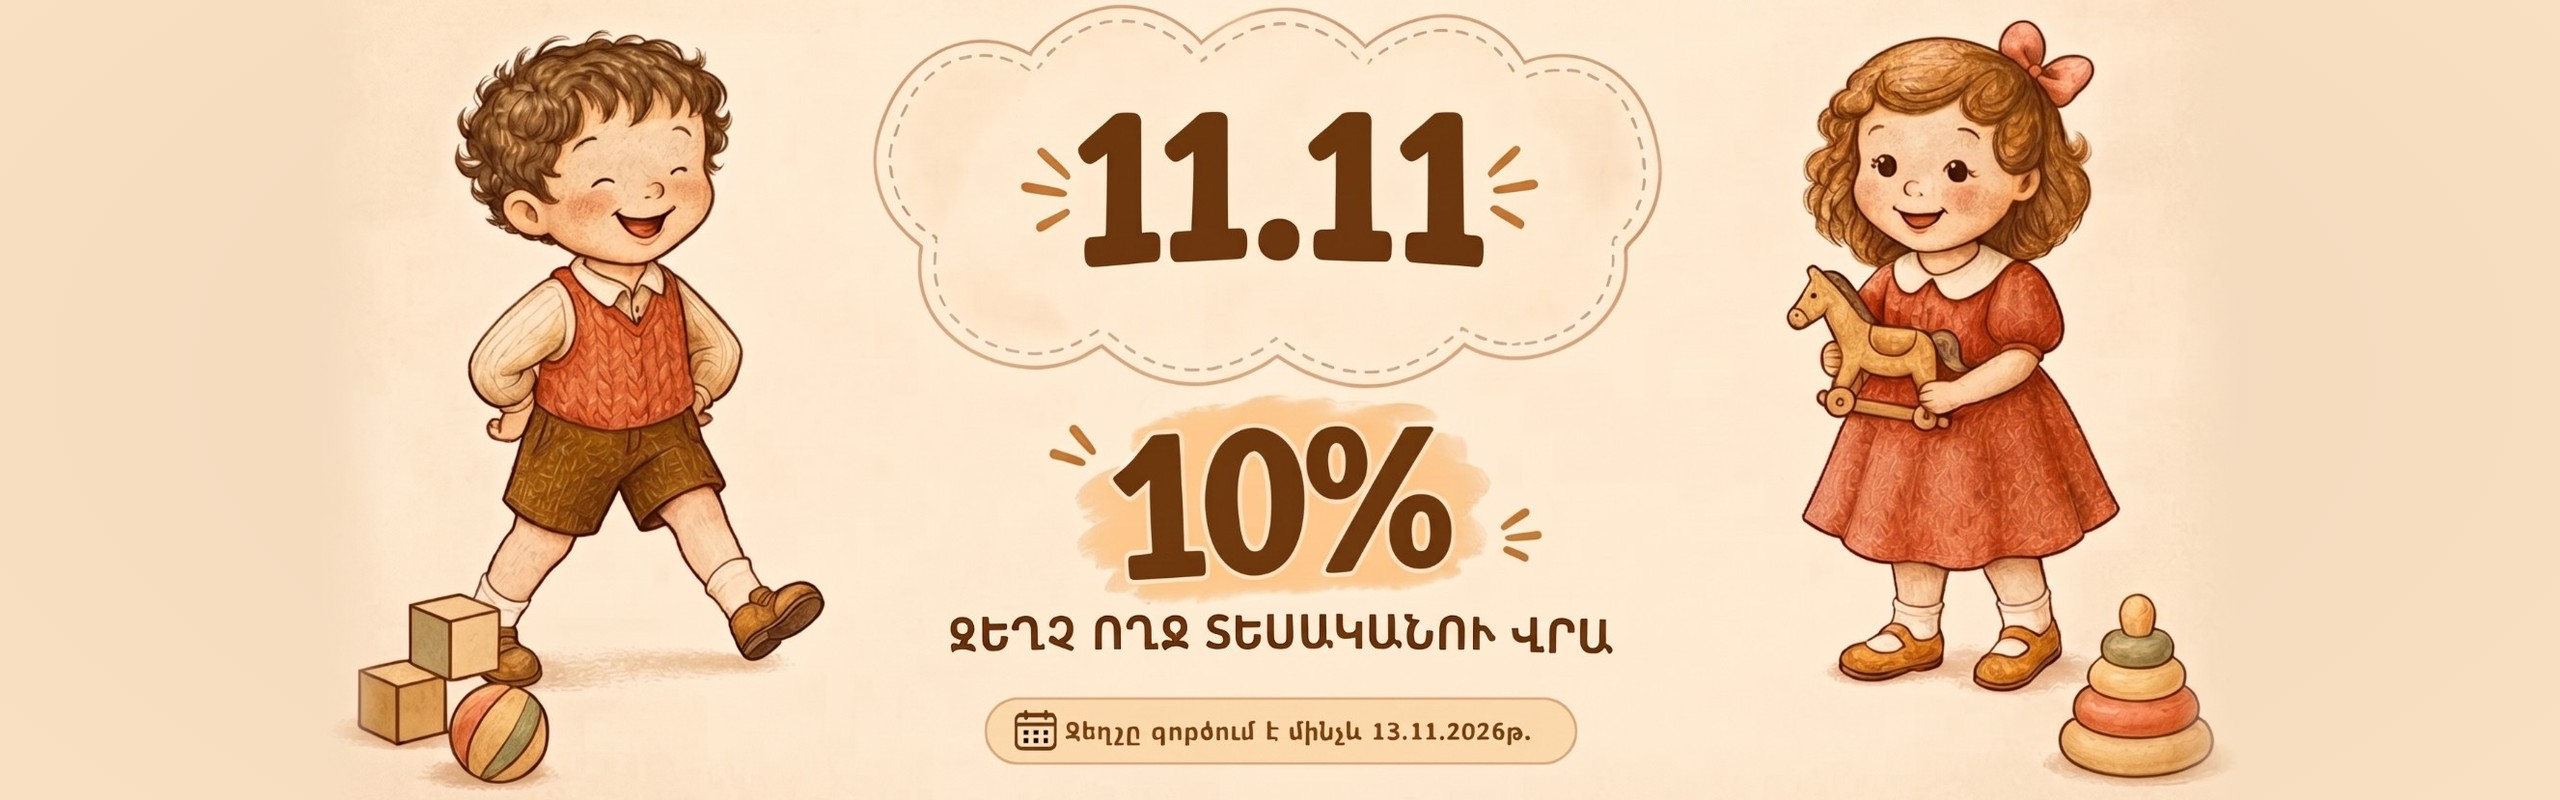
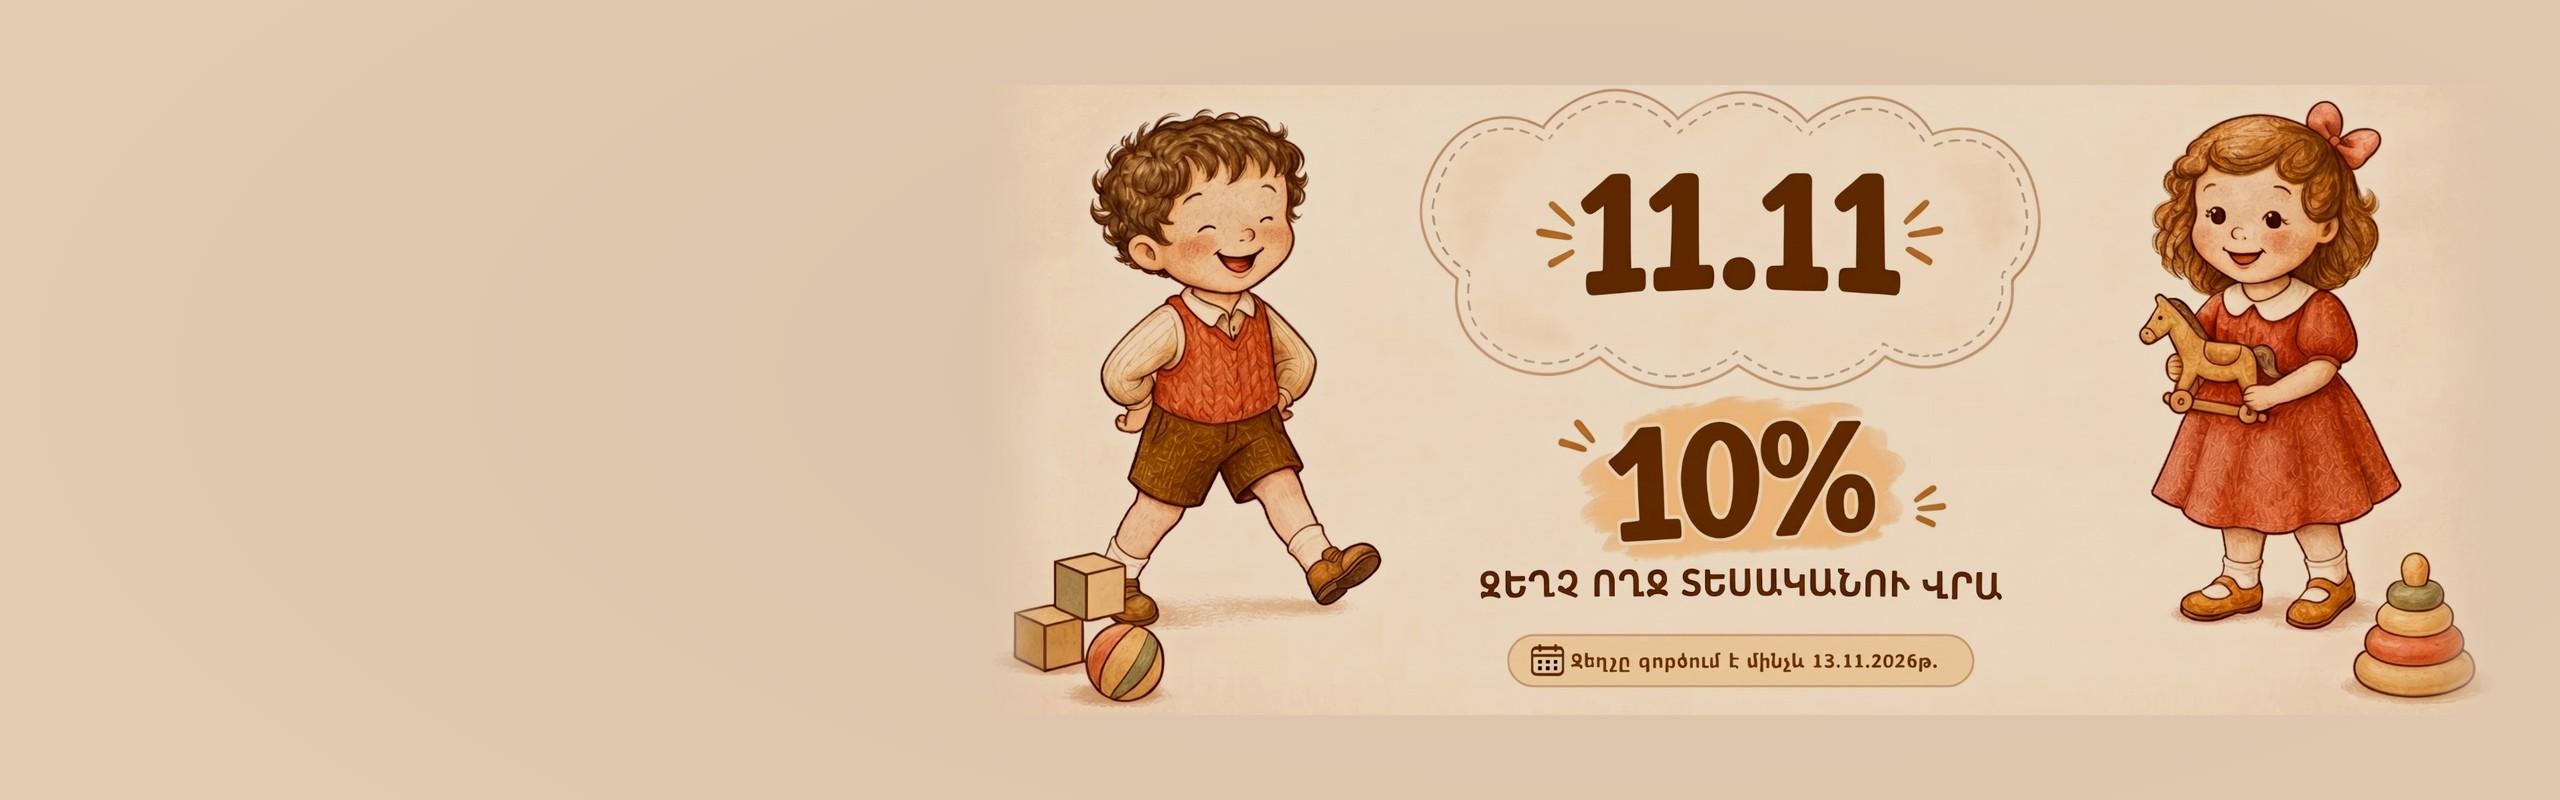
Give promotions run dates so a dated campaign takes itself down (#36)
* Add the 11.11 sale banner as the first carousel slide

The artwork arrived as a 2000x1117 landscape design (1.79:1) and the slide is
16:5. Rather than crop it down to ratio -- which would have cut the date line
and the toys off the bottom -- the canvas is extended sideways into matched
cream, so the whole design survives. The only thing removed is the logo
lockup, because the site header shows the same logo directly above the
carousel. The paper tone either side is sampled from the file's own margins
and the seams are feathered, so the extension is invisible.

Promotions gain an `artworkOnly` flag, used by this slide. A design that
already carries its own headline does not want the slide's overlay printed
over it: the gradient and text block are left-aligned, the artwork is centred,
and the result was the headline sitting across Max's face while repeating in
two languages what the image already said. With the flag the artwork stands
alone and the whole slide becomes the link instead of just the button.

Checked at both breakpoints, because they disagree. Desktop shows the design
whole. On mobile `min-h-[260px]` beats `aspect-[16/6]` at 375px wide, making
the box 1.44:1 so object-cover shows only the middle 45% of the image -- the
design is centred precisely so that window keeps 11.11, 10%, the Armenian
line and the date, trading away the edges of the two characters.

Copy is in all three languages via promotionTranslations, so the slide reads
[…]

diff --git a/lib/i18n/localize-data.ts b/lib/i18n/localize-data.ts
@@ -1,6 +1,7 @@
 import type { CategoryInfo } from "@/types";
 import { categories as baseCategories } from "@/data/categories";
 import { promotions as basePromotions, type Promotion } from "@/data/promotions";
+import { shopDayEnd, shopDayStart } from "@/lib/pricing";
 import { FULFILLMENT_OPTIONS, type FulfillmentOption } from "@/data/fulfillment";
 import { ARMENIA_REGIONS, type ArmeniaRegion } from "@/data/armenia-regions";
 import type { Locale } from "@/lib/i18n/locales";
@@ -145,9 +146,9 @@ interface PromotionTranslation {
 const promotionTranslations: Record<"hy" | "ru", Record<string, PromotionTranslation>> = {
   hy: {
     "sale-11-11": {
-      title: "11.11 — 10% զեղչ",
+      title: "11.11 զեղչ՝ 10% ողջ տեսականու վրա",
       subtitle: "10% զեղչ ողջ տեսականու վրա՝ մինչև նոյեմբերի 13-ը",
-      ctaLabel: "Դիտել զեղչերը",
+      ctaLabel: "Այցելել խանութ",
     },
     "musical-toys": {
       title: "Նոր՝ երաժշտական խաղալիքներ",
@@ -172,9 +173,9 @@ const promotionTranslations: Record<"hy" | "ru", Record<string, PromotionTransla
   },
   ru: {
     "sale-11-11": {
-      title: "11.11 — скидка 10%",
+      title: "11.11: скидка 10% на всё",
       subtitle: "Скидка 10% на весь ассортимент до 13 ноября",
-      ctaLabel: "Смотреть скидки",
+      ctaLabel: "Посетить магазин",
     },
     "musical-toys": {
       title: "Новинка: музыкальные игрушки",
@@ -199,10 +200,22 @@ const promotionTranslations: Record<"hy" | "ru", Record<string, PromotionTransla
   },
 };
 
-export function localizePromotions(locale: Locale): Promotion[] {
-  if (locale === "en") return basePromotions;
+// Dates are read in shop time (Yerevan, UTC+4) so a campaign ending "13
+// November" runs to the end of that day locally, not to 04:00 as a bare date
+// parsed as UTC would.
+function isRunning(promo: Promotion, now: Date): boolean {
+  const startsAt = promo.startsOn ? shopDayStart(promo.startsOn) : null;
+  const endsAt = promo.endsOn ? shopDayEnd(promo.endsOn) : null;
+  if (startsAt && now < startsAt) return false;
+  if (endsAt && now >= endsAt) return false;
+  return true;
+}
+
+export function localizePromotions(locale: Locale, now: Date = new Date()): Promotion[] {
+  const running = basePromotions.filter((promo) => isRunning(promo, now));
+  if (locale === "en") return running;
   const translations = promotionTranslations[locale];
-  return basePromotions.map((promo) => {
+  return running.map((promo) => {
     const tr = translations[promo.slug];
     return tr ? { ...promo, ...tr } : promo;
   });

diff --git a/components/home/PromoCarousel.tsx b/components/home/PromoCarousel.tsx
@@ -127,32 +127,21 @@ export function PromoCarousel() {
               className="object-cover transition-transform duration-700 group-hover:scale-105"
               sizes="100vw"
             />
-            {promo.artworkOnly ? (
+            <div className="absolute inset-0 bg-gradient-to-r from-espresso/60 via-espresso/20 to-transparent" />
+            <div className="relative z-10 px-6 sm:px-20 lg:px-24">
+              <p className="max-w-md text-2xl font-bold text-cream sm:text-3xl">{promo.title}</p>
+              <p className="mt-2 max-w-sm text-sm text-cream/90 sm:text-base">{promo.subtitle}</p>
               <Link
                 href={promo.href}
-                aria-label={promo.ctaLabel}
-                className="absolute inset-0 z-10"
                 tabIndex={i === index ? 0 : -1}
-              />
-            ) : (
-              <>
-                <div className="absolute inset-0 bg-gradient-to-r from-espresso/60 via-espresso/20 to-transparent" />
-                <div className="relative z-10 px-6 sm:px-20 lg:px-24">
-                  <p className="max-w-md text-2xl font-bold text-cream sm:text-3xl">{promo.title}</p>
-                  <p className="mt-2 max-w-sm text-sm text-cream/90 sm:text-base">{promo.subtitle}</p>
-                  <Link
-                    href={promo.href}
-                    tabIndex={i === index ? 0 : -1}
-                    className="mt-4 inline-flex items-center gap-2 rounded-full bg-cream px-5 py-2 text-sm font-semibold text-espresso transition-colors hover:bg-terracotta hover:text-white"
-                  >
-                    {promo.ctaLabel}
-                    <svg width="16" height="16" viewBox="0 0 24 24" fill="none" stroke="currentColor" aria-hidden="true">
-                      <path d="M5 12h14M13 5l7 7-7 7" strokeWidth="2" strokeLinecap="round" strokeLinejoin="round" />
-                    </svg>
-                  </Link>
-                </div>
-              </>
-            )}
+                className="mt-4 inline-flex items-center gap-2 rounded-full bg-cream px-5 py-2 text-sm font-semibold text-espresso transition-colors hover:bg-terracotta hover:text-white"
+              >
+                {promo.ctaLabel}
+                <svg width="16" height="16" viewBox="0 0 24 24" fill="none" stroke="currentColor" aria-hidden="true">
+                  <path d="M5 12h14M13 5l7 7-7 7" strokeWidth="2" strokeLinecap="round" strokeLinejoin="round" />
+                </svg>
+              </Link>
+            </div>
           </div>
         ))}
       </div>

diff --git a/data/promotions.ts b/data/promotions.ts
@@ -6,13 +6,14 @@ export interface Promotion {
   href: string;
   ctaLabel: string;
   /**
-   * For slides whose artwork already carries its own headline. The overlay
-   * gradient and text are skipped and the whole slide becomes the link, so the
-   * design is not printed over twice — and nothing is laid across the
-   * characters' faces, which is what happens when a centred design meets a
-   * left-aligned text block.
+   * Optional run dates, YYYY-MM-DD in shop time. A slide outside its window is
+   * not rendered at all, so a dated campaign takes itself down instead of
+   * sitting on the homepage advertising a discount that has expired — which
+   * matters most when the end date is printed inside the artwork and cannot be
+   * edited away. endsOn is inclusive: "2026-11-13" runs through all of the 13th.
    */
-  artworkOnly?: boolean;
+  startsOn?: string;
+  endsOn?: string;
 }
 
 export const promotions: Promotion[] = [
@@ -21,12 +22,13 @@ export const promotions: Promotion[] = [
     // numbers only — "11.11" and "10%" read the same in all three languages —
     // so the copy below stays translatable instead of being baked into the JPEG.
     slug: "sale-11-11",
-    title: "11.11 — 10% off everything",
+    title: "11.11 Sale: 10% off everything",
     subtitle: "Ten percent off the whole catalogue until 13 November",
     image: "/images/promotions/sale-11-11-v3.jpg",
     href: "/shop",
-    ctaLabel: "Shop the sale",
-    artworkOnly: true,
+    ctaLabel: "Visit the store",
+    startsOn: "2026-11-11",
+    endsOn: "2026-11-13",
   },
   {
     slug: "musical-toys",

diff --git a/lib/pricing.test.ts b/lib/pricing.test.ts
@@ -147,3 +147,31 @@ describe("activeSalePercent with cache-serialized dates", () => {
     ).toBeNull();
   });
 });
+
+describe("promotion run windows", () => {
+  // The 11.11 slide has "valid until 13.11.2026" printed inside the artwork,
+  // so it must disappear on its own. These pin the boundary in shop time.
+  const starts = shopDayStart("2026-11-11")!;
+  const ends = shopDayEnd("2026-11-13")!;
+  const running = (now: Date) => now >= starts && now < ends;
+
+  it("is hidden the day before it starts", () => {
+    expect(running(new Date("2026-11-10T12:00:00Z"))).toBe(false);
+  });
+
+  it("is showing on the first day, from local midnight", () => {
+    expect(running(new Date("2026-11-10T20:00:00Z"))).toBe(true); // 11 Nov 00:00 Yerevan
+  });
+
+  it("is still showing late on the final day", () => {
+    expect(running(new Date("2026-11-13T19:59:00Z"))).toBe(true); // 13 Nov 23:59 Yerevan
+  });
+
+  it("is gone the moment the 14th begins in Yerevan", () => {
+    expect(running(new Date("2026-11-13T20:00:00Z"))).toBe(false); // 14 Nov 00:00 Yerevan
+  });
+
+  it("stays gone afterwards", () => {
+    expect(running(new Date("2026-11-20T09:00:00Z"))).toBe(false);
+  });
+});
